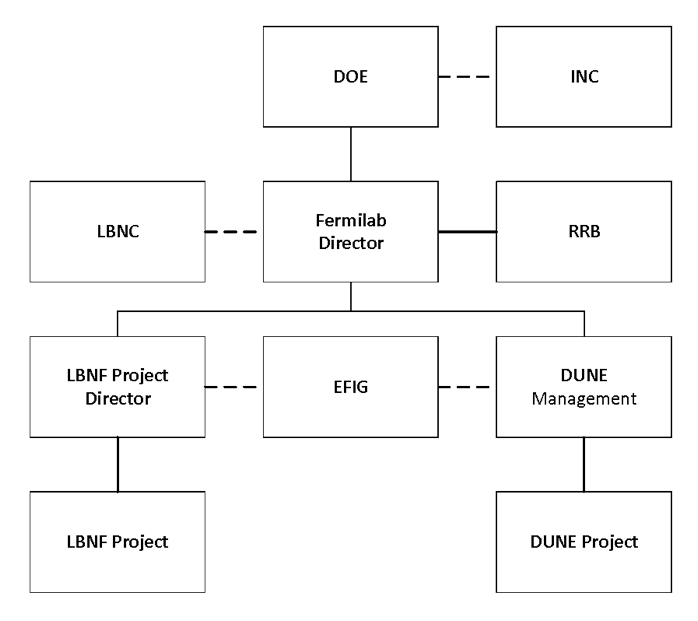
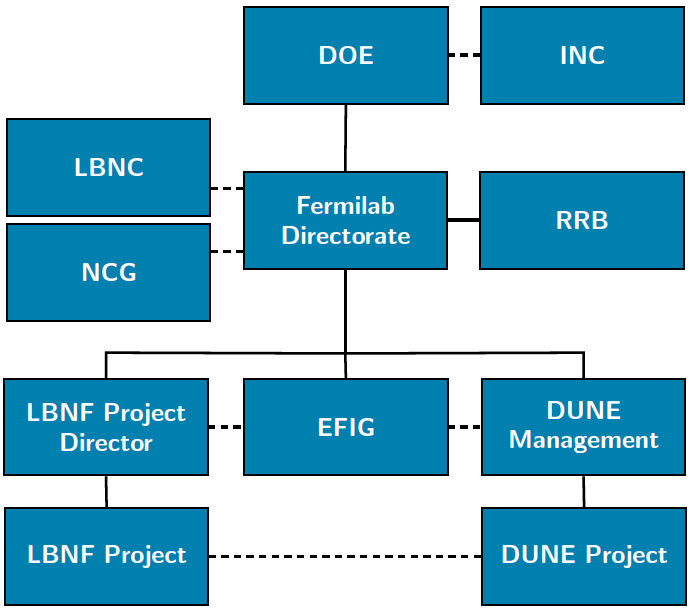
new lbnf dune org graphic and fixed a snb figure

diff --git a/vol-sp/ch-sp-daq.tex b/vol-sp/ch-sp-daq.tex
@@ -1545,17 +1545,17 @@ crucial to continue working closely with the radiological task force
 to validate radiological the background assumptions.
 
 \begin{dunefigure}[Supernova burst trigger
-  efficiency]{fig:daq-snb-eff-Eweight}{Top: \dword{snb} trigger 
+  efficiency]{fig:daq-snb-eff-Eweight}{Top: \dword{snb} trigger
     efficiency as a function of the number of supernova neutrino
-    interactions in the 10 kton module, for a likelihood trigger
+    interactions in the \SI{10}{\kt} module, for a likelihood trigger
     approach that utilizes sum ADC shape information of
     \dwords{trigcandidate} input into the trigger decision. Bottom:
     For a \dword{snb} at the Large Magellanic Cloud, where 10 neutrino
   interactions are expected, the efficiency gain over a counting-only
-  trigger is significantly improved. }
- \includegraphics[width=0.65\textwidth, trim=0 8cm 3cm 6cm]{daq-efficiency-snb.pdf}%
+  trigger is significantly improved. } %trim=left bottom right top
+\includegraphics[width=0.65\textwidth, trim=0cm 9cm 3cm 6cm]{daq-efficiency-snb.pdf}%
 \newline
- \includegraphics[width=0.65\textwidth, angle=-90]{daq-snb-eff-lmc.pdf}%
+\includegraphics[width=0.65\textwidth, angle=-90,  trim=0cm 2cm 0cm 0cm]{daq-snb-eff-lmc.pdf}%
 \end{dunefigure}
 
 In the case of the high level filter, the consortium is exploring the
